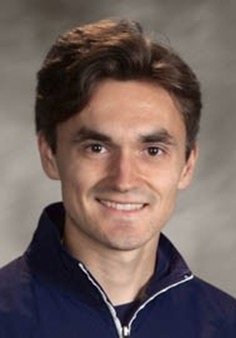
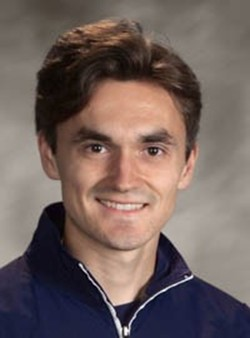
Add profile picture to about me section

diff --git a/app/styles/main.scss b/app/styles/main.scss
@@ -18,7 +18,6 @@ body {
 
 /* Everything but the jumbotron gets side spacing for mobile first views */
 .header,
-.marketing,
 .footer {
   padding-left: 20px;
   padding-right: 20px;
@@ -42,28 +41,6 @@ body {
   color: #777;
 }
 
-.container-narrow > hr {
-  margin: 30px 0;
-}
-
-/* Main marketing message and sign up button */
-.jumbotron {
-  text-align: center;
-  border-bottom: 1px solid #e5e5e5;
-  .btn {
-    font-size: 21px;
-    padding: 14px 24px;
-  }
-}
-
-/* Supporting marketing content */
-.marketing {
-  margin: 40px 0;
-  p + h4 {
-    margin-top: 28px;
-  }
-}
-
 /* Responsive: Portrait tablets and up */
 @media screen and (min-width: 768px) {
   .container {
@@ -73,23 +50,25 @@ body {
   .content {
     background: url('../images/western-background.jpg') no-repeat center center fixed;
     background-size: cover;
-    padding-top: 150px;
-    padding-bottom: 150px;
+    padding-top: 100px;
+    padding-bottom: 100px;
     .info {
       margin: 0 auto;
-      opacity: 0.75;
-      background-color: #ffffff;
+      background: rgba(255,255,255,0.75);
       border-radius: 15px;
-      padding: 50px 100px 50px 100px;
-      width: 50%;
-      /* bring your own prefixes */
-      transform: translate(0, 0);
+      width: 600px;
+      p {
+        margin-bottom: 0px;
+      }
+      .profile {
+        border-top-left-radius: 15px;
+        border-bottom-left-radius: 15px;;
+      }
     }
   }
 
   /* Remove the padding we set earlier */
   .header,
-  .marketing,
   .footer {
     padding-left: 20px;
     padding-right: 20px;
@@ -105,8 +84,7 @@ body {
     color: #ffffff;
   }
 
-  /* Remove the bottom border on the jumbotron for visual effect */
-  .jumbotron {
-    border-bottom: 0;
+  .header-button {
+    color: #ffffff;
   }
 }

diff --git a/app/index.html b/app/index.html
@@ -25,18 +25,18 @@
     <![endif]-->
     <div class="header">
       <ul class="nav nav-pills pull-right">
-        <li class="active"><a href="#">About Me</a></li>
-        <li><a href="#">Experience</a></li>
-        <li><a href="#">Interests</a></li>
-        <li><a href="#">Contact</a></li>
+        <li class="active"><a class="header-button" href="#">About Me</a></li>
+        <li><a class="header-button" href="#">Experience</a></li>
+        <li><a class="header-button" href="#">Interests</a></li>
+        <li><a class="header-button" href="#">Contact</a></li>
       </ul>
       <h3 class="text-name">Hunter Andrin</h3>
     </div>
 
     <div class="content">
       <div class="info">
-        <img src="">
-        <p>fg</p>
+        <img class="profile" src="../images/profile.jpg">
+        <p></p>
       </div>
     </div>
 

diff --git a/app/scripts/main.js b/app/scripts/main.js
@@ -1,1 +1,1 @@
-console.log('\'Allo \'Allo!');
+console.log('Welcome to my lair');
